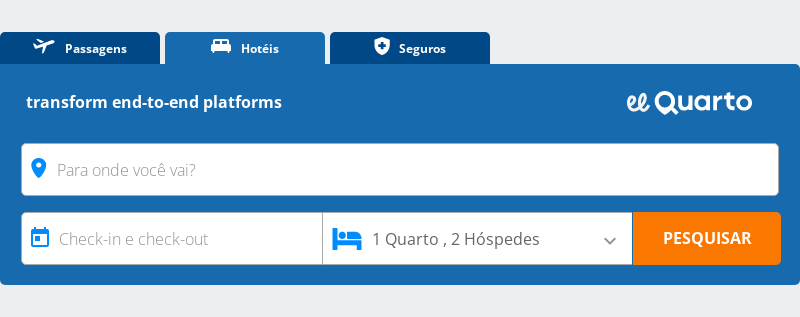
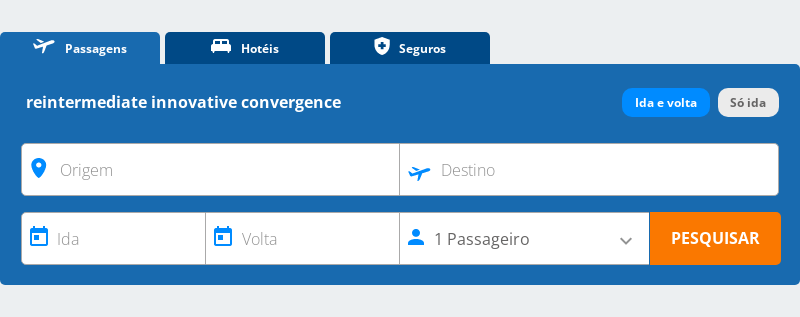
coisitas

diff --git a/.slicemachine/assets/slices/MainBannerFrame/index.stories.js b/.slicemachine/assets/slices/MainBannerFrame/index.stories.js
@@ -5,5 +5,5 @@ export default {
 }
 
 
-export const _DefaultSlice = () => <MyComponent slice={{"variation":"default-slice","name":"Default slice","slice_type":"main_banner_frame","items":[],"primary":{"headerImage":{"dimensions":{"width":900,"height":500},"alt":"Placeholder image","copyright":null,"url":"https://images.unsplash.com/photo-1571126770897-2d612d1f7b89?w=900&h=500&fit=crop"},"bannerImage":{"dimensions":{"width":900,"height":500},"alt":"Placeholder image","copyright":null,"url":"https://images.unsplash.com/photo-1560762484-813fc97650a0?w=900&h=500&fit=crop"},"bannerTitle":"seize best-of-breed e-markets","bannerText":[{"type":"paragraph","text":"Adipisicing occaecat non amet est excepteur irure aliquip. Irure consequat eu ea elit sunt anim esse eu aute quis quis velit nulla. Irure labore Lorem deserunt anim eu anim eu qui.","spans":[]}],"passagemTitle":"redefine integrated solutions","elquartoTitle":"implement B2C synergies","seguroTitle":"monetize holistic channels","defaultSearch":"PASSAGEM","background":"harness cross-media content","frameTop":"deliver wireless solutions"},"id":"_DefaultSlice"}} />
+export const _DefaultSlice = () => <MyComponent slice={{"variation":"default-slice","name":"Default slice","slice_type":"main_banner_frame","items":[],"primary":{"headerImage":{"dimensions":{"width":900,"height":500},"alt":"Placeholder image","copyright":null,"url":"https://images.unsplash.com/photo-1587905069134-008460d7a636?w=900&h=500&fit=crop"},"bannerImage":{"dimensions":{"width":900,"height":500},"alt":"Placeholder image","copyright":null,"url":"https://images.unsplash.com/photo-1607582278038-6bebbd4d7b72?w=900&h=500&fit=crop"},"bannerTitle":"recontextualize collaborative web services","bannerText":[{"type":"paragraph","text":"Sunt elit mollit tempor laboris incididunt. Laborum veniam ullamco quis anim consequat irure laboris esse.","spans":[]}],"defaultSearch":"PASSAGEM","background":"synthesize 24/365 e-commerce"},"id":"_DefaultSlice"}} />
 _DefaultSlice.storyName = 'Default slice'

diff --git a/.slicemachine/assets/slices/SearchFrame/index.stories.js b/.slicemachine/assets/slices/SearchFrame/index.stories.js
@@ -5,5 +5,5 @@ export default {
 }
 
 
-export const _DefaultSlice = () => <MyComponent slice={{"variation":"default-slice","name":"Default slice","slice_type":"search_frame","items":[],"primary":{"passagemTitle":"reinvent best-of-breed portals","seguroTitle":"grow 24/365 solutions","elquartoTitle":"transform end-to-end platforms","defaultSearch":"ELQUARTO"},"id":"_DefaultSlice"}} />
+export const _DefaultSlice = () => <MyComponent slice={{"variation":"default-slice","name":"Default slice","slice_type":"search_frame","items":[],"primary":{"passagemTitle":"reintermediate innovative convergence","seguroTitle":"productize extensible niches","elquartoTitle":"reinvent enterprise action-items","defaultSearch":"PASSAGEM","marginTop":"exploit mission-critical content","marginBottom":"e-enable vertical communities"},"id":"_DefaultSlice"}} />
 _DefaultSlice.storyName = 'Default slice'

diff --git a/slices/MainBannerFrame/index.tsx b/slices/MainBannerFrame/index.tsx
@@ -63,23 +63,6 @@ const MainBannerFrame = ({ slice }: MainBannerFrameSlice) => {
             />
           </div>
         </div>
-        <div
-          style={{ marginTop: slice.primary.frameTop }}
-          className={styles.searchframe}
-        >
-          <SearchFrame
-            frameTitles={{
-              passagem: slice.primary.passagemTitle,
-              elquarto: slice.primary.elquartoTitle,
-              seguro: slice.primary.seguroTitle,
-            }}
-            size={smallScreen ? "THIN" : "WIDE"}
-            elquartoSearchUrl=""
-            passagemSearchUrl=""
-            segurosSearchUrl=""
-            defaultSearch={slice.primary.defaultSearch || "PASSAGEM"}
-          />
-        </div>
       </div>
     </div>
   );

diff --git a/slices/SearchFrame/index.tsx b/slices/SearchFrame/index.tsx
@@ -3,7 +3,13 @@ import styles from "./index.module.scss";
 
 const SearchFrame = ({ slice }: SearchFrameSlice) => {
   return (
-    <div className={styles.container}>
+    <div
+      style={{
+        marginTop: slice.primary.marginTop,
+        marginBottom: slice.primary.marginBottom,
+      }}
+      className={styles.container}
+    >
       <SearchFrameLib
         frameTitles={{
           passagem: slice.primary.passagemTitle,

diff --git a/src/types.d.ts b/src/types.d.ts
@@ -48,7 +48,8 @@ declare type SearchFrameSlice = {
       elquartoTitle: PrismicText;
       passagemTitle: PrismicText;
       seguroTitle: PrismicText;
-      moveUp: number;
+      marginTop: PrismicText;
+      marginBottom: PrismicText;
     };
   };
 };
